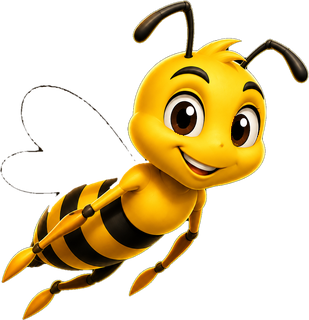
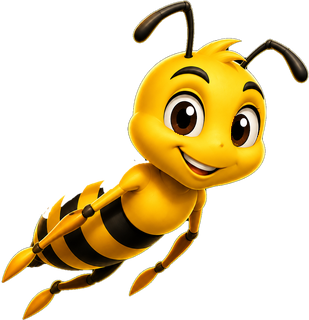
fix: give hero mascot one living presence

diff --git a/src/constants/mascot.js b/src/constants/mascot.js
@@ -24,12 +24,12 @@
 // by inspecting its irises, not by its name — a rename only moves a trap. It
 // is a guard rather than a comment because a comment is what failed here.
 //
-// Acceptance for the repair was a ROUND TRIP, not a colour match (Lumen's bar,
-// 2026-08-25): the repaired master back through the chain must reproduce what
-// already ships. It does — `mascot-wing.png` byte-identical by sha256, and
-// `mascot-body.png` differing in 2 pixels of 98,880, max channel diff 2, both
-// inside the iris box, dE00 max 0.5731. The shipped face is the face of record;
-// the master conforms to it, never the reverse.
+// The 2026-08-25 iris round trip made `mascot-wing.png` byte-identical and
+// changed only two sub-JND iris pixels in `mascot-body.png`. The 2026-09-02
+// split repair intentionally changes the BODY mask: the master's charcoal
+// wing perimeter belongs to the moving wing pose, never the still body layer.
+// `check:mascot-presence` measures the shipped bytes and the pipeline records
+// the ownership rule; see design/README.md.
 
 // Character box: the union of the two layers' bounding boxes, 1013 x 1049px.
 // Both PNGs are cropped to it, so they stack by being the same size in the
@@ -42,6 +42,12 @@ export const MASCOT_ASPECT = 1013 / 1049;
 // footprint. Height follows from the aspect and comes out at 0.708 of the box
 // against StripedBee's 0.47: the mascot has a head and a trailing abdomen.
 export const MASCOT_WIDTH_FRACTION = 16.4 / 24;
+
+// WelcomeBee's character box inside its ceremonial stage. This is layout,
+// not motion, but it lives beside the mascot geometry so measurements of the
+// hero use the box the component actually passes rather than the 132pt stage
+// around it. Moving it changes the hero's silhouette, not merely a comment.
+export const WELCOME_BEE_STAGE_FRACTION = 0.68;
 
 // Wing root, as a fraction of the character box. This is the pivot for the
 // beat; it is not the box centre, which is why `MascotBee` composes the pivot
@@ -171,8 +177,8 @@ export const MASCOT_CLEARANCE = [
 //
 // **He is right, and the arithmetic says how right.** Breath's entire visible
 // output is the wing tip travelling `2 * BREATH_FLAP_RADIUS * sin(1 degree)`
-// = 1.4346% of the box height. At the 132pt hero that is **1.3400pt
-// peak-to-peak over 2100ms — 0.638 pt/s, 0.0106pt per frame at 60fps.** The
+// = 1.4346% of the drawn height. At WelcomeBee's 132pt stage that is **0.9111pt
+// peak-to-peak over 2100ms — 0.434pt/s, 0.0072pt per frame at 60fps.** The
 // character is, to the eye, a still image. The doctrine's bar is "you never
 // catch it performing; if you stare, it rewards you"; a stare is rewarded with
 // a hundredth of a point per frame, which is not a reward, it is a rounding
@@ -200,7 +206,9 @@ export const MASCOT_CLEARANCE = [
 export const BREATH_RISE_CYCLE_MS = 6500;
 
 // Peak-to-peak vertical travel of the whole character, as a fraction of its
-// drawn HEIGHT — 2.0553pt at the 132pt hero, 0.6851pt at chrome 44.
+// drawn HEIGHT. At WelcomeBee's 132pt stage the passed character box is
+// 89.76pt and the drawing is 63.5158pt high, so the travel below is 2.0325pt.
+// At a direct 44pt chrome mount the drawing is 31.1352pt high: 0.9963pt.
 //
 // **The doctrine's 1.5% ceiling is not available as the bound here, and saying
 // why is the point.** That figure was already converted into the wing's own
@@ -223,9 +231,8 @@ export const BREATH_RISE_CYCLE_MS = 6500;
 // measurement and the verdict was "flat." A tuned number inside a stated
 // interval, re-tuned by the follow-up its own note named.
 //
-// 3.2% is 4.224pt peak-to-peak at the 132pt hero and 1.408pt at chrome 44.
 // The clock does NOT move (6.5s, 42/58 split): peak drift-rate at the hero is
-// 0.65pt/s, still an order of magnitude under the ~5pt/s where a slow move
+// 0.31pt/s, still an order of magnitude under the ~5pt/s where a slow move
 // stops reading as breathing and starts reading as travel. That ordering is
 // the ruling — RETREAT AXIS IS AMPLITUDE, NEVER THE CLOCK. A faster cycle is
 // panting, and it fails the ceiling's own argument rather than tuning inside
@@ -304,8 +311,9 @@ export const SETTLE_INTERVAL_MAX_MS = 45000;
 
 // The dip, as a fraction of DRAWN height — the same denominator
 // `BREATH_RISE_FRACTION` uses, so the two body terms are comparable without a
-// conversion. 3% is 3.96pt at the 132pt hero, 1.32pt at chrome 44: slightly
-// LARGER than a whole breath's peak-to-peak, because a settle has to read as a
+// conversion. 3% is 1.9055pt at WelcomeBee's 132pt stage and 0.9341pt at a
+// direct chrome 44 mount — slightly LARGER than a whole breath's peak-to-peak,
+// because a settle has to read as a
 // distinct event against the breath it interrupts, not as a deeper breath.
 export const SETTLE_DIP_FRACTION = 0.03;
 

diff --git a/src/components/WelcomeBee.js b/src/components/WelcomeBee.js
@@ -1,7 +1,8 @@
-import React, { useEffect, useRef } from 'react';
-import { Animated, Easing, StyleSheet, View } from 'react-native';
+import React from 'react';
+import { StyleSheet, View } from 'react-native';
 import { MascotBee } from './MascotBee';
-import { useReducedMotion } from '../constants/motion';
+import { WELCOME_BEE_STAGE_FRACTION } from '../constants/mascot';
+import { useReducedMotionState } from '../constants/motion';
 
 // The hero pose: the mascot held still, at the largest size it is drawn
 // anywhere in the app (132pt, `CoreRitual.js:55` — the write gate).
@@ -17,65 +18,30 @@ import { useReducedMotion } from '../constants/motion';
 // than on one identifier — see section E of `scripts/check-bee-attitude.mjs`,
 // which is the row that caught it.
 //
-// What this component still owns is the *rhythm*, and that is the reason it
-// exists rather than being replaced by a bare `<MascotBee>`:
-//
-//   - the **bob**, 1600ms each way on `inOut(sin)` with a ±3° roll
-//   - the **double-flick**, two fast beats then a 620ms rest
-//
-// Both are §17.3 rulings about a held pose. A pose that twitches reads alive;
-// one that buzzes continuously reads like a loading spinner, and at 132pt that
-// difference is the whole hero moment. `MascotBee`'s built-in `flutter` is the
-// continuous loop for a bee in transit, so this drives the wing itself through
-// the `beat` prop — the component owns where the hinge is and how far the wing
-// swings, the caller owns when.
+// The hero used to own a second motion language: a fixed 3.2s bob/roll and an
+// 800ms wing metronome. That moved the wrapper, but it did not read as the
+// character gently breathing — the two clocks repeated as one mechanical
+// loop, and the body never received the perched presence system's irregular
+// punctuation or weight. The hero now asks `MascotBee` for the same whole-
+// silhouette Breath as every other perched appearance. One character, one
+// presence grammar; this wrapper owns layout only.
 //
 // It draws no glow of its own. GlowOrb is the ratified light primitive and the
 // screens that host this bee already put one behind it — a second radial disc
 // inside that light is two light sources for one subject, and the smaller one
 // always loses. The bee is just the bee.
 export const WelcomeBee = ({ size = 148 }) => {
-  const reduced = useReducedMotion();
-  const bob = useRef(new Animated.Value(0)).current;
-  const wing = useRef(new Animated.Value(0)).current;
-
-  useEffect(() => {
-    if (reduced) return undefined;
-    const bobLoop = Animated.loop(
-      Animated.sequence([
-        Animated.timing(bob, { toValue: 1, duration: 1600, easing: Easing.inOut(Easing.sin), useNativeDriver: true }),
-        Animated.timing(bob, { toValue: 0, duration: 1600, easing: Easing.inOut(Easing.sin), useNativeDriver: true }),
-      ])
-    );
-    const wingLoop = Animated.loop(
-      Animated.sequence([
-        Animated.timing(wing, { toValue: 1, duration: 90, useNativeDriver: true }),
-        Animated.timing(wing, { toValue: 0, duration: 90, useNativeDriver: true }),
-        Animated.timing(wing, { toValue: 0, duration: 620, useNativeDriver: true }),
-      ])
-    );
-    bobLoop.start();
-    wingLoop.start();
-    return () => {
-      bobLoop.stop();
-      wingLoop.stop();
-    };
-  }, [reduced, bob, wing]);
-
-  const translateY = bob.interpolate({ inputRange: [0, 1], outputRange: [0, -10] });
-  const rotate = bob.interpolate({ inputRange: [0, 1], outputRange: ['-3deg', '3deg'] });
+  const { reduced, resolved } = useReducedMotionState();
 
   // 0.68 of the stage, unchanged: the old drawing sat in a box that fraction
   // of `size`, and `MascotBee` draws the character at the same fraction of
   // whatever box it is given, so the hero's footprint on the gate is the one
   // that was laid out against GlowOrb and the wordmark below it.
-  const bodySize = size * 0.68;
+  const bodySize = size * WELCOME_BEE_STAGE_FRACTION;
 
   return (
     <View style={[styles.stage, { width: size, height: size }]}>
-      <Animated.View style={{ transform: [{ translateY }, { rotate }] }}>
-        <MascotBee size={bodySize} beat={reduced ? undefined : wing} />
-      </Animated.View>
+      <MascotBee size={bodySize} breath={resolved && !reduced} />
     </View>
   );
 };

diff --git a/design/pipeline/build_layers.py b/design/pipeline/build_layers.py
@@ -88,7 +88,19 @@ wing = ndimage.binary_fill_holes(ndimage.binary_closing(wing, np.ones((11, 11)))
 wing = ndimage.binary_dilation(wing, np.ones((7, 7))) & subj
 print(f'wing region {int(wing.sum())}px')
 
-body = subj & ~wing
+# The master paints each wing with a fine charcoal construction line around
+# the translucent gold.  That line belongs to the wing pose, not to the body:
+# leaving it in `body` makes the rest pose retain a second, immobile pair of
+# wings behind the animated pair.  Own only the narrow dark perimeter here;
+# the bright wing mask above remains byte-stable and the body pixels beyond
+# the hinge stay untouched.
+yy, xx = np.indices(subj.shape)
+wing_distance = ndimage.distance_transform_edt(~wing)
+wing_outline = subj & (lum < 120) & (wing_distance <= 20) & (xx < 602)
+wing_ownership = wing | ndimage.binary_dilation(wing_outline, np.ones((5, 5)))
+print(f'wing-owned outline {int((wing_ownership & ~wing).sum())}px')
+
+body = subj & ~wing_ownership
 
 def soft(mask, sigma=0.9):
     return np.clip(ndimage.gaussian_filter(mask.astype(np.float64), sigma), 0, 1)

diff --git a/design/pipeline/cut.py b/design/pipeline/cut.py
@@ -9,11 +9,13 @@ import numpy as np, json, sys, os
 
 OUT = sys.argv[1] if len(sys.argv) > 1 else '.'
 wing = Image.open('wing_full.png'); body = Image.open('body_full.png')
-wa = np.asarray(wing)[:, :, 3]; ba = np.asarray(body)[:, :, 3]
-ys, xs = np.nonzero(np.maximum(wa, ba) > 7)
-x0, x1, y0, y1 = xs.min(), xs.max(), ys.min(), ys.max()
-box = (x0, y0, x1 + 1, y1 + 1)
-BW, BH = x1 - x0 + 1, y1 - y0 + 1
+# The character box is part of the component geometry, not a fresh answer to
+# whatever pixels happen to survive a layer repair.  Removing the static wing
+# outline from the body legitimately changes the union's leftmost pixel; it
+# must not recrop both layers and shift the approved hinge under the caller.
+# This is the espresso master's ratified 1013 x 1049 box.
+box = (169, 110, 1182, 1159)
+BW, BH = box[2] - box[0], box[3] - box[1]
 print(f'character box {BW}x{BH}')
 
 BASE = 320  # R82's target: the longer side, sized for the 132pt hero at 3x

diff --git a/design/README.md b/design/README.md
@@ -56,11 +56,28 @@ re-earning.
 
 ## Acceptance
 
-The repair's bar was a **round trip**, not a colour match (Lumen, 2026-08-25):
-the repaired master back through the chain must reproduce what already ships.
+The iris repair's bar was a **round trip**, not a colour match (Lumen,
+2026-08-25): the repaired master back through the chain had to reproduce what
+already shipped.
 
     mascot-wing.png   0 differing pixels, sha256 identical
     mascot-body.png   2 differing pixels of 98,880 (0.0020%), max channel diff 2,
                       both inside the iris box, dE00 max 0.5731
 
 The shipped face is the face of record. The master conforms to it, never the reverse.
+
+### Wing-outline ownership (2026-09-02)
+
+The master includes a fine charcoal construction line around the translucent
+wings. The original split assigned that dark perimeter to `body`, so rotating
+the golden wing exposed an immobile second wing behind it. The pipeline now
+assigns the narrow dark perimeter to wing ownership before cutting the body;
+the rendered wing layer itself remains byte-identical. `cut.py` pins the
+ratified 1013×1049 character box so removing an artifact cannot recrop both
+layers and silently move the hinge.
+
+Acceptance is the cream-ground body-only and wing+body recomposite plus
+`npm run check:mascot-presence`: the old body contains 959 dark near-wing
+pixels; the repaired body contains 45, all at legitimate body/hinge crossings,
+under the gate's ≤100 ceiling. The wing SHA-256 remains
[1 lines of base64/hex data omitted]
